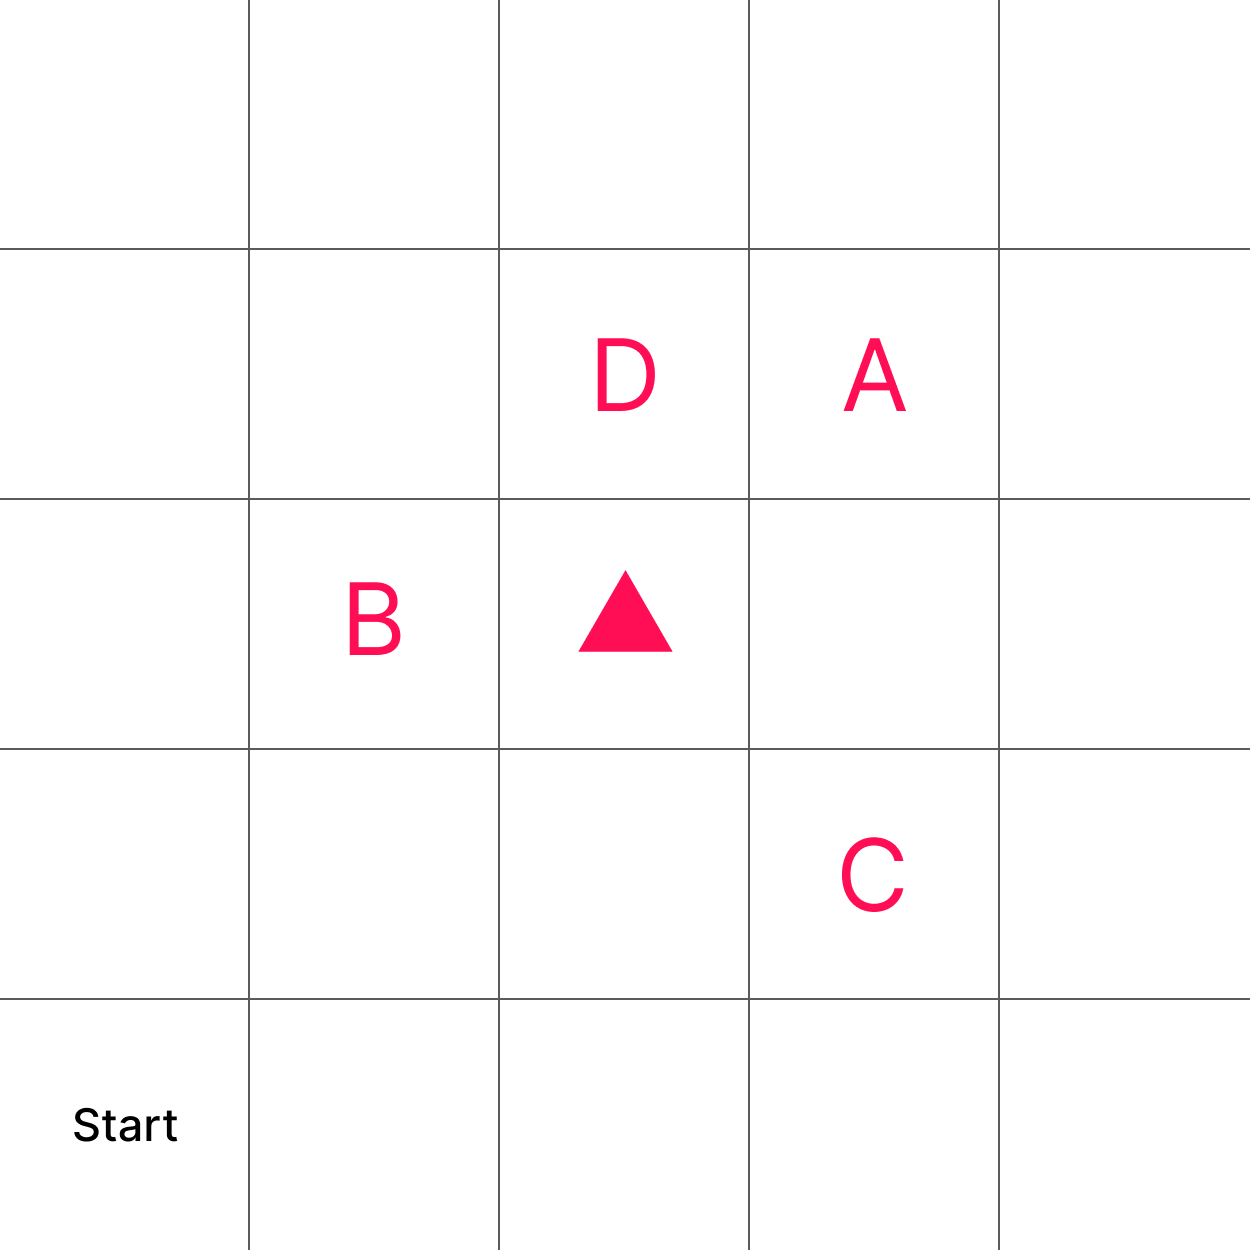
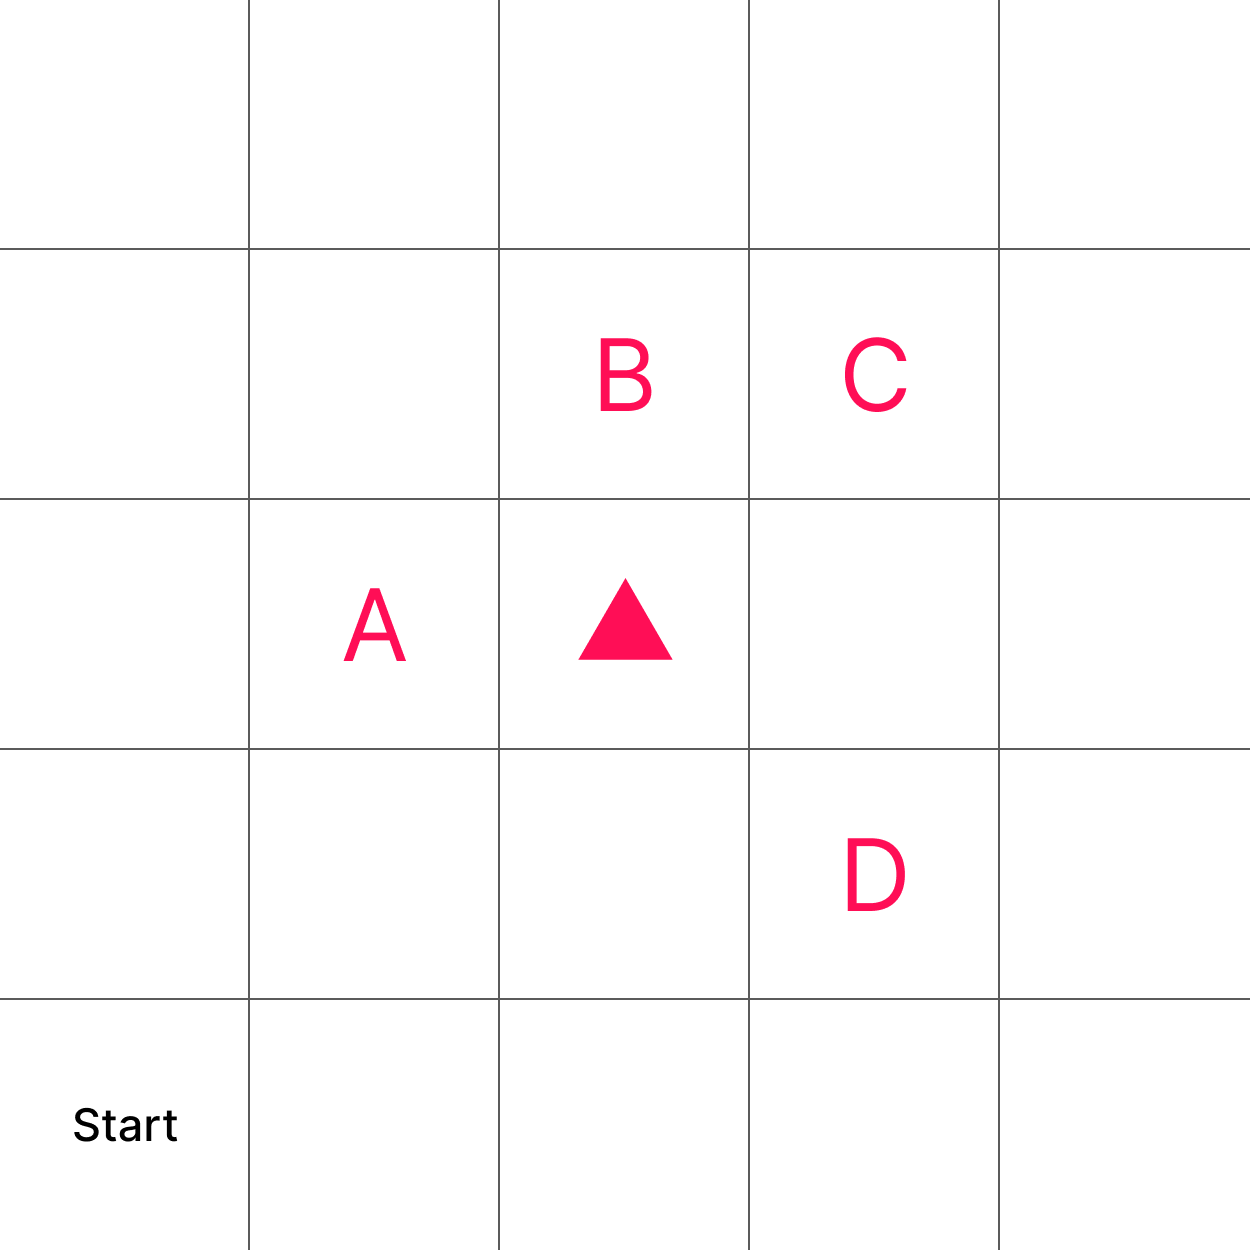
minor styling updates: + round image corners, cover up div behind image and make it transparent + tweaks to shadow properties + update puzzle 1 image

diff --git a/scss/styles.css b/scss/styles.css
@@ -9958,7 +9958,7 @@ a {
 }
 
 div {
-  border-radius: 0.2rem;
+  border-radius: 0.4rem;
 }
 footer {
   margin: 5rem 0;
@@ -10000,10 +10000,14 @@ footer {
 }
 
 #puzzle-image {
-  background: linear-gradient(135deg, #FFB039 0%, #FF6B00 100%);
+  background: rgba(0, 0, 0, 0);
+}
+#puzzle-image img {
+  border-radius: 0.4rem;
   border-bottom-left-radius: 0;
   border-top-left-radius: 0;
 }
+
 #puzzle-question {
   transition: all 0.3s cubic-bezier(0.445, 0.05, 0.55, 0.95);
   background: linear-gradient(135deg, #FFB039 0%, #FF6B00 100%);
@@ -10052,13 +10056,13 @@ footer {
 
 @media (max-width: 991.98px) {
   #puzzle-description {
-    border-radius: 0.2rem;
+    border-radius: 0.4rem;
     border-bottom-right-radius: 0;
     border-bottom-left-radius: 0;
   }
 
-  #puzzle-image {
-    border-radius: 0.2rem;
+  #puzzle-image img {
+    border-radius: 0.4rem;
     border-top-right-radius: 0;
     border-top-left-radius: 0;
   }

diff --git a/scss/styles.scss b/scss/styles.scss
@@ -57,12 +57,13 @@ footer {
 
 #puzzle-image {
   @extend .px-0;
-  background: $main-gradient;
-  border-bottom-left-radius: 0;
-  border-top-left-radius: 0;
+  background: $transparent;
 
   img {
     @extend .my-0, .h-auto, .w-auto;
+    @include round-border();
+    border-bottom-left-radius: 0;
+    border-top-left-radius: 0;
   }
 }
 
@@ -125,9 +126,11 @@ footer {
     border-bottom-left-radius: 0;
   }
   #puzzle-image {
-    @include round-border();
-    border-top-right-radius: 0;
-    border-top-left-radius: 0;
+    img {
+      @include round-border();
+      border-top-right-radius: 0;
+      border-top-left-radius: 0;
+    }
   }
   #puzzle-question-container {
     text-align: center;

diff --git a/puzzles/puzzle1.html b/puzzles/puzzle1.html
@@ -62,7 +62,8 @@
             <p>→↑→↓←↑↑→→↑</p>
             <h6>Where is the treasure located?</h6>
         </div>
-        <!--        <hr class="mb-0">-->
+        <hr class="mb-0">
+        <div id="puzzle-feedback"></div>
         <form id="puzzle-answer-options" class="d-lg-flex justify-content-between h-auto">
             <div class="form-check answer-option">
                 <input class="form-check-input" type="radio" name="answerOptions" id="answerOption1"

diff --git a/scss/_mixins.scss b/scss/_mixins.scss
@@ -33,6 +33,6 @@
   box-shadow: 0.05rem 0.1rem 0.5rem $shadow-color;
 }
 
-@mixin round-border() {
-  border-radius: 0.2rem;
+@mixin round-border($radius: 0.4rem) {
+  border-radius: $radius;
 }
